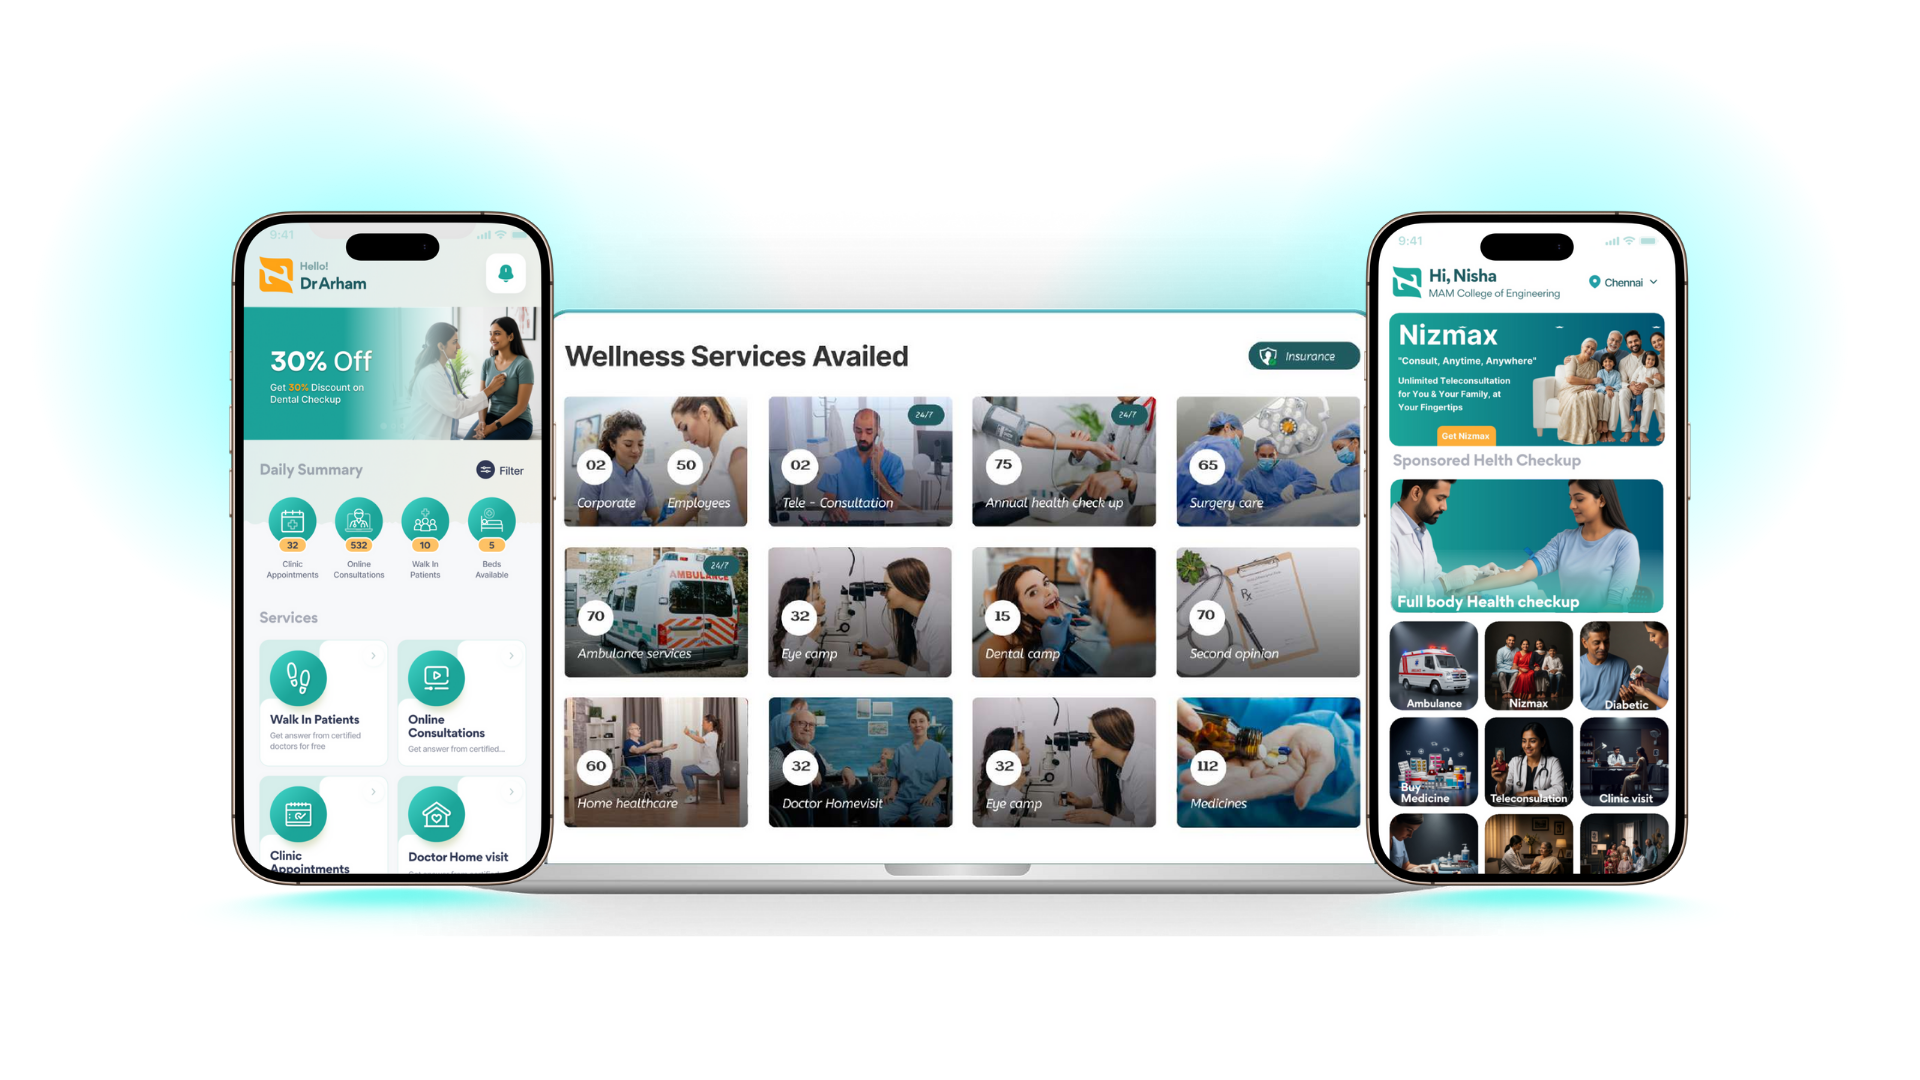
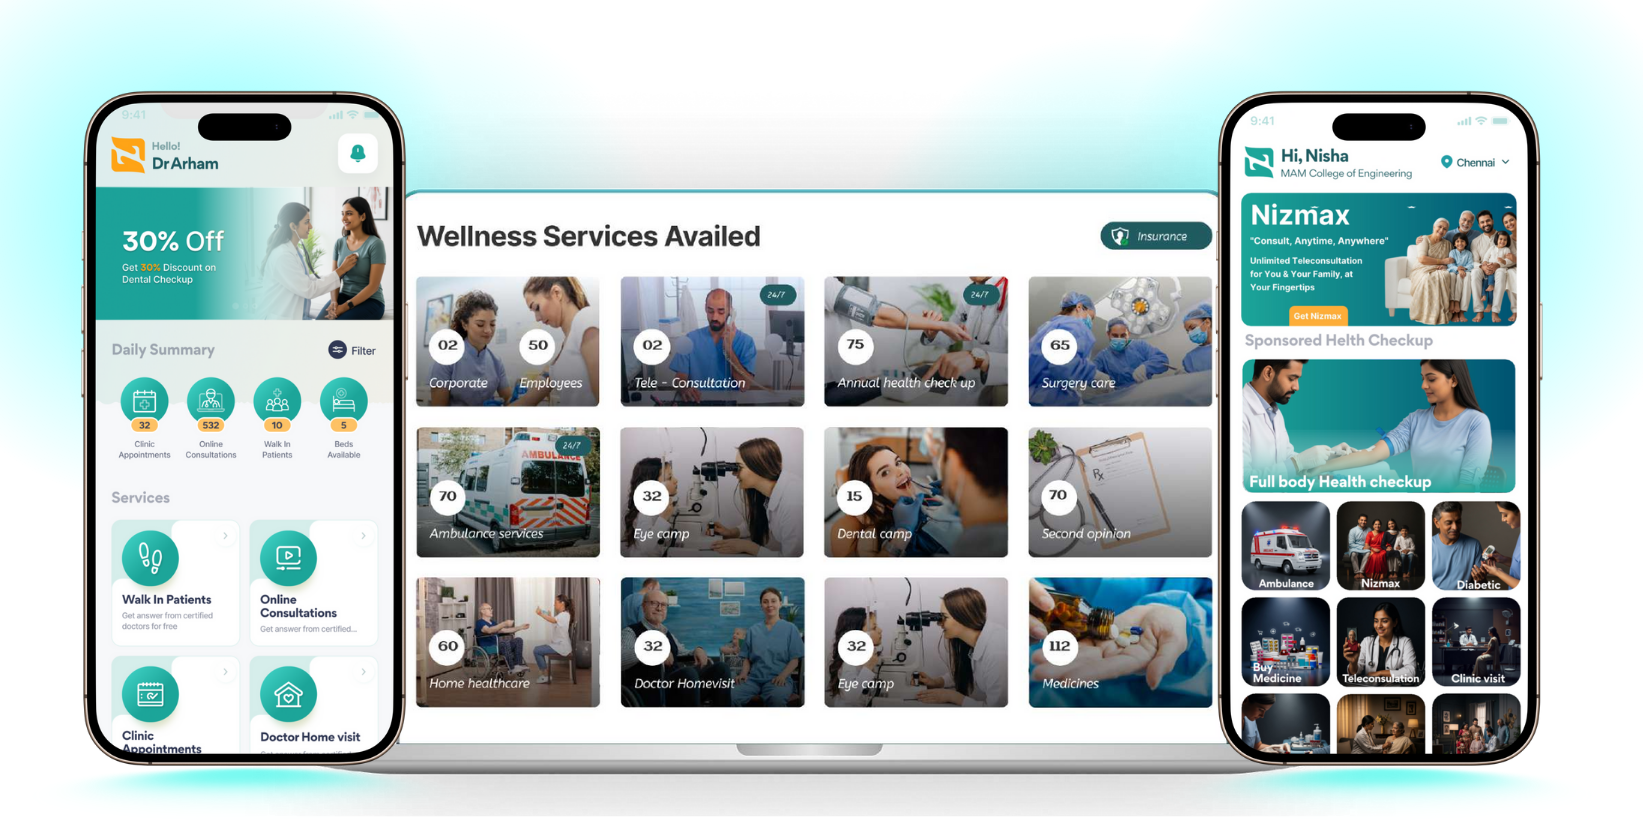
1 image pending

diff --git a/doctorPage/style.css b/doctorPage/style.css
@@ -1252,7 +1252,7 @@ footer {
 
 /* why nizcare */
 .hover-card {
-    background: #fff;
+    background: #1da69a;
     border-color: rgba(16, 185, 129, 0.18);
     transition: transform .35s ease, border-color .35s ease, box-shadow .35s ease;
 }
@@ -1270,7 +1270,7 @@ footer {
     bottom: 0;
     height: 0;
     z-index: 1;
-    background: #1da69a;
+    background: white;
     transition: height .55s cubic-bezier(.2, .9, .2, 1);
     pointer-events: none;
 }
@@ -1287,12 +1287,12 @@ footer {
 .hover-card .sub-title,
 .hover-card .why-desc,
 .hover-card .why-list li {
-    color: #333;
+    color: white;
     transition: color .35s ease;
 }
 
 .hover-card .icon {
-    color: #0f766e;
+    color: white;
     font-weight: 700;
     display: inline-block;
     width: 20px;
@@ -1302,9 +1302,12 @@ footer {
 .hover-card:hover .sub-title,
 .hover-card:hover .why-desc,
 .hover-card:hover .why-list li,
-.hover-card:hover .icon,
 .hover-card:hover strong {
-    color: #fff !important;
+    color: #000 !important;
+}
+
+.hover-card:hover .icon {
+    color: #1da69a !important;
 }
 
 .sub-title {
@@ -1464,7 +1467,8 @@ footer {
 
 /* doctor app */
 .app-card {
-    background: linear-gradient(180deg, rgba(255, 255, 255, 0.98), rgba(255, 255, 255, 0.95));
+    background: #1da69a;
+    color: white;
     border-color: rgba(15, 118, 110, 0.06);
     transition: transform .4s cubic-bezier(.2, .9, .2, 1), box-shadow .35s ease;
 }
@@ -1481,7 +1485,7 @@ footer {
     bottom: 0;
     height: 0;
     z-index: 1;
-    background: #1da69a;
+    background: white;
     transition: height .55s cubic-bezier(.2, .9, .2, 1);
 }
 
@@ -1495,7 +1499,7 @@ footer {
 }
 
 .app-features li {
-    color: #1f2937;
+    color: white;
     margin-bottom: .625rem;
     line-height: 1.45;
     font-size: 1rem;
@@ -1505,15 +1509,18 @@ footer {
 .check {
     width: 26px;
     display: inline-block;
-    color: #0f766e;
+    color: white;
     font-weight: 700;
     margin-right: .5rem;
 }
 
 .app-card:hover .app-title,
-.app-card:hover .app-features li,
+.app-card:hover .app-features li {
+    color: #000 !important;
+}
+
 .app-card:hover .check {
-    color: #fff !important;
+    color: #1da69a !important;
 }
 
 .app-card .btn {
@@ -1529,7 +1536,7 @@ footer {
 
 .swiper-nizcare-app {
     width: 100%;
-    max-width: 360px;
+    max-width: 450px;
     margin: 0 auto;
     position: relative;
     border-radius: 12px;
@@ -1553,7 +1560,7 @@ footer {
 .swiper-image {
     width: 100%;
     height: auto;
-    max-height: 520px;
+    max-height: 600px;
     object-fit: contain;
     display: block;
     border-radius: 10px;
@@ -1586,11 +1593,11 @@ footer {
 }
 
 .swiper-nizcare-prev {
-    left: 2px;
+    left: 25px;
 }
 
 .swiper-nizcare-next {
-    right: 2px;
+    right: 25px;
 }
 
 .swiper-button:active {

diff --git a/doctorPage/clinicpage.html b/doctorPage/clinicpage.html
@@ -321,7 +321,7 @@
         <div class="container">
             <!-- Section Title -->
             <div class="section-title" data-aos="fade-up">
-                <h2 class="text-center mb-5 digital-title">Craft Your Personalized App and Clinic Management Solution
+                <h2 class="text-center digital-title">Craft Your Personalized App and Clinic Management Solution
                     with <span>
                         Nizcare
                         AI-Powered Solutions
@@ -329,7 +329,7 @@
             </div>
 
             <div class="text-center">
-                <img width="70%" class="mt-5" src="./nizImg/new-image/ai-powered.png" alt="">
+                <img width="90%" class="" src="./nizImg/new-image/ai-powered.png" alt="">
             </div>
         </div>
     </section>
@@ -674,8 +674,6 @@
                         <button class="swiper-nizcare-next swiper-button" aria-label="Next slide"
                             type="button"><i class=" bi bi-arrow-right-circle fs-4"></i></button>
                     </div>
-
-                    <small class="text-muted mt-3 d-block">HIPAA-Compliant Secure App</small>
                 </div>
 
             </div>
